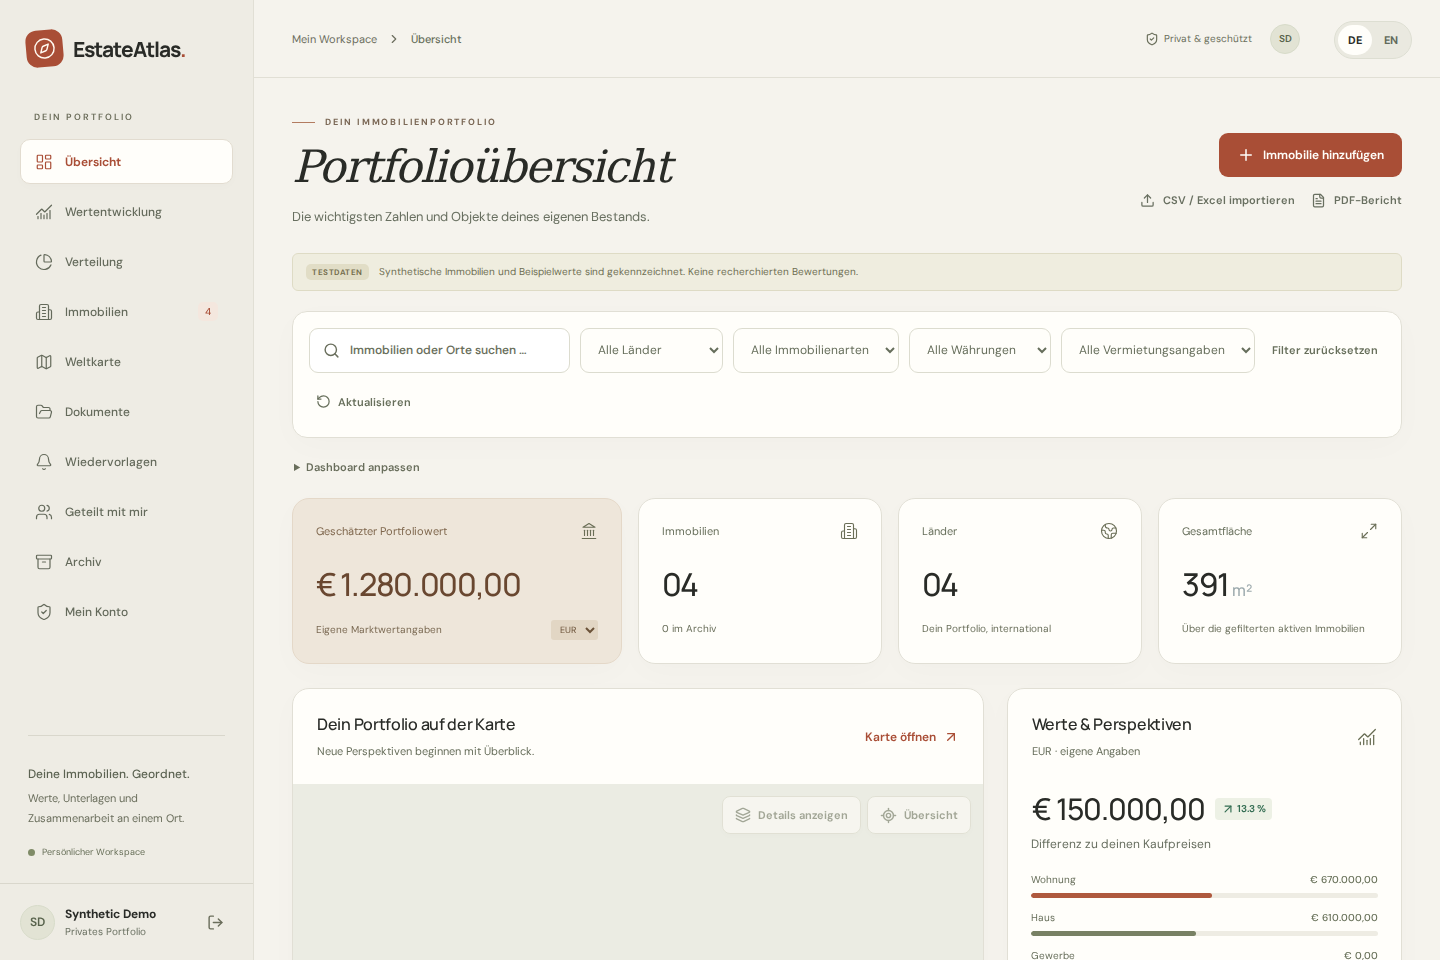
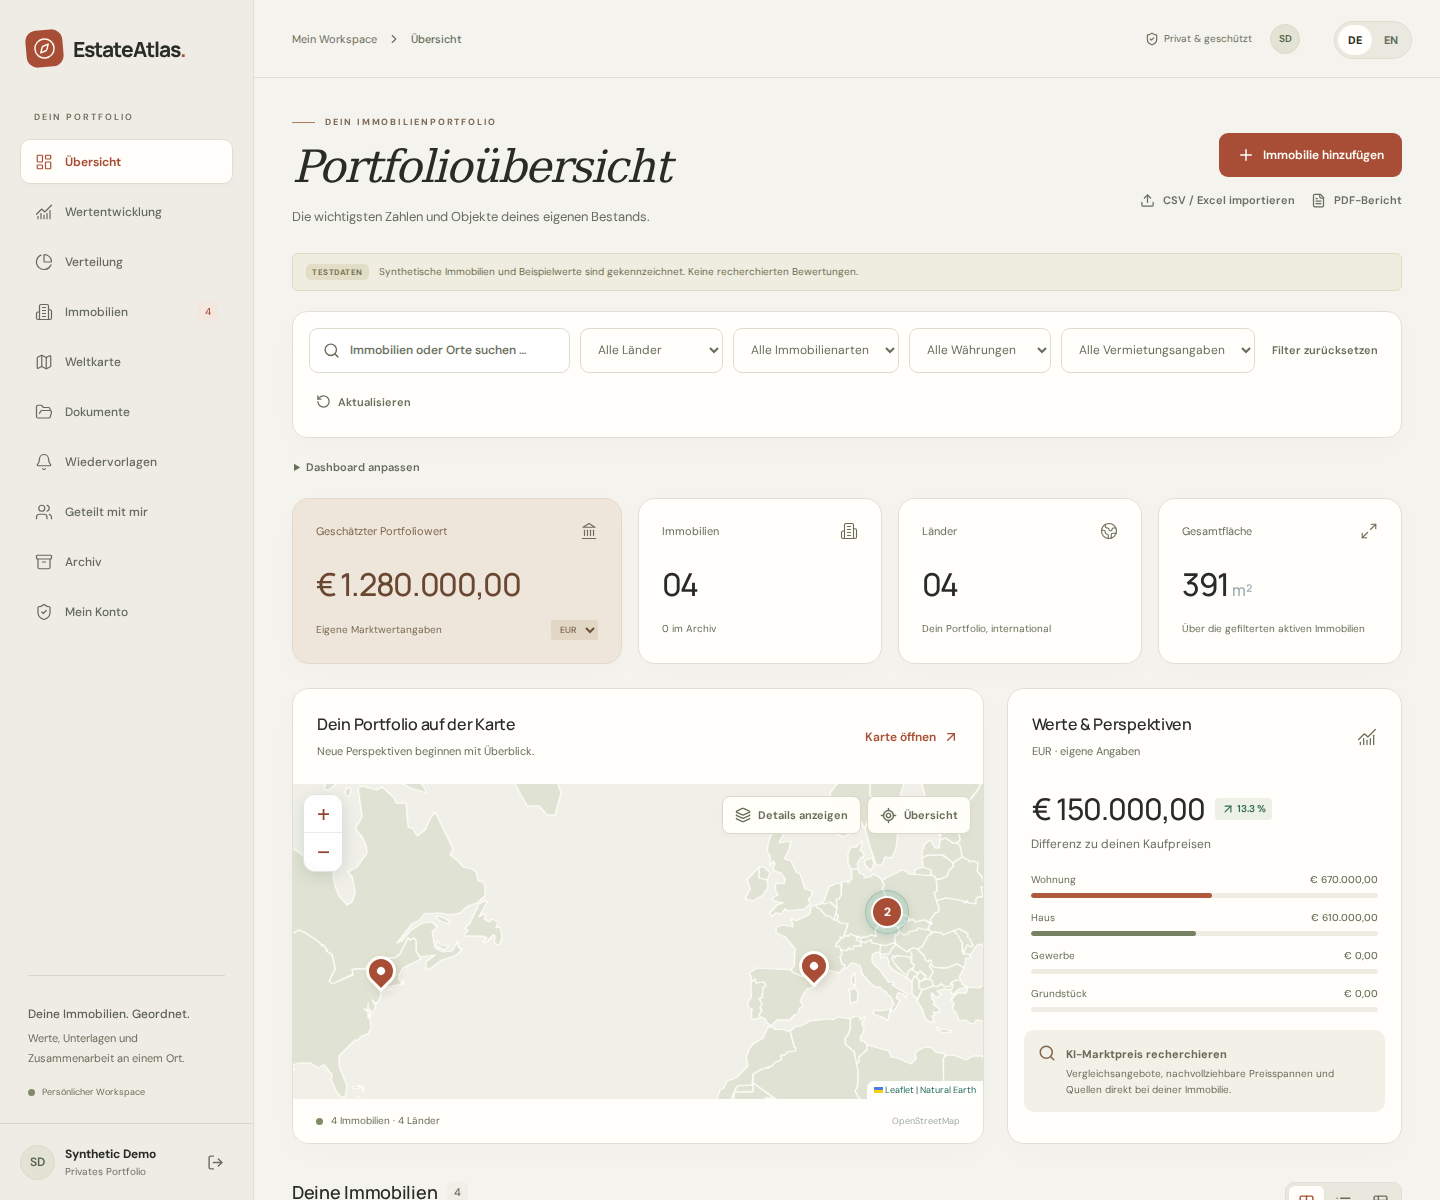
ci: require fresh Docker installation and record verified onboarding

diff --git a/docs/open-source-release.md b/docs/open-source-release.md
@@ -4,16 +4,21 @@ Preparing the repository, publishing its source, and launching a public hosted i
 
 ## Repository preparation
 
-- [ ] Owner selects the source license; add the unmodified license text and matching workspace metadata.
-
 The review branch proposes MIT in `LICENSE` and workspace metadata. Owner confirmation of this choice is pending; it is not authorization to change repository visibility. License comparison: [MIT](https://choosealicense.com/licenses/mit/) and [AGPL-3.0](https://choosealicense.com/licenses/agpl-3.0/).
 
+- [ ] Owner selects the source license; add the unmodified license text and matching workspace metadata.
 - [x] README explains the product, local start, native limitations and contribution path.
 - [x] Self-hosting, development and maintainer deployment guides are separated.
 - [x] Contributor/PR guidance, issue forms, security reporting and bundled-asset notices are present.
-- [ ] Generate and inspect the synthetic desktop/mobile previews from the fresh-install check.
-- [ ] Pass the fresh-checkout Docker check for the committed code; retain its local report.
+- [x] Generate and inspect the synthetic desktop/mobile previews from the fresh-install check.
+- [x] Pass the fresh-checkout Docker check for the committed onboarding code; retain its local report.
 - [ ] Pass documentation links, workflow validation, full-history secret scanning and both branch pipelines.
+
+## Local verification
+
+Verified on Linux x86_64 on 2026-10-22, using committed source `ab9524b51d2be52ff7d763973a5bf98113c74208` and `./scripts/pnpm exec node scripts/check-self-hosting.mjs --screenshots`.
+
+The eight checks cover a clean clone without host app dependencies/user configuration, isolated Docker project/ports/volumes, builds and service health, packaged license/notices, Web/API/CORS/private access, open signup and explicit synthetic fixtures, browser login/screenshots, and persisted data/sessions plus logout after restart. The temporary database and containers were removed. Logs and the machine-readable result remain in ignored `.local/`; no user or provider data was used. The same check now runs as a required job in both branch pipelines.
 
 ## Before changing visibility
 
@@ -21,9 +26,13 @@ The review branch proposes MIT in `LICENSE` and workspace metadata. Owner confir
 - Confirm the selected license covers the code the owner can license; retain third-party terms.
 - Make the prepared changes available on `main` through the normal `dev` → `main` release PR. GitHub uses the default branch for the README, license, security policy and issue templates.
 - Set a factual repository description/topics and enable Issues for reports.
-- Enable GitHub private vulnerability reporting when the repository supports it; keep the security policy's fallback usable until then.
 - Confirm required checks and deployment branch restrictions remain active, and that external contributor PRs receive no deployment secrets.
-- Change visibility only with the owner's explicit publication instruction. Then verify the clone instructions without an authenticated GitHub session.
+
+## Publication
+
+- Change visibility only with the owner's explicit publication instruction.
+- Enable GitHub private vulnerability reporting after publication and verify that **Report a vulnerability** is available. GitHub documents this feature for [public repositories](https://docs.github.com/en/code-security/how-tos/report-and-fix-vulnerabilities/configure-vulnerability-reporting/configure-for-a-repository); the security policy has a contact-only fallback.
+- Verify the clone instructions without an authenticated GitHub session.
 
 ## Before advertising the hosted app
 

diff --git a/docs/development-deployment.md b/docs/development-deployment.md
@@ -5,7 +5,7 @@
 | `dev`  | EstateAtlas Dev pipeline  | Automatic after successful checks: https://dev.estateatlas.app       |
 | `main` | EstateAtlas Main pipeline | Production after explicit workflow approval: https://estateatlas.app |
 
-Features and fixes target `dev`. A release pull request merges `dev` into `main`. Each branch has its own workflow and runs the shared checks from `.github/workflows/ci.yml`: workflow/shell validation, full-history secret scanning, types, dependency audit, real PostgreSQL API tests, proxy/gateway checks, production builds, Android/iOS exports and desktop/mobile browser tests. `checks / Required checks` fails if any check fails, is cancelled or is skipped. Pull requests, including forks, cannot access deployment secrets or deploy. There are no path filters that can silently skip required checks.
+Features and fixes target `dev`. A release pull request merges `dev` into `main`. Each branch has its own workflow and runs the shared checks from `.github/workflows/ci.yml`: workflow/shell and documentation validation, full-history secret scanning, types, dependency audit, real PostgreSQL API tests, proxy/gateway checks, production builds, Android/iOS exports, desktop/mobile browser tests and a fresh-checkout Docker installation check. `checks / Required checks` fails if any check fails, is cancelled or is skipped. Pull requests, including forks, cannot access deployment secrets or deploy. There are no path filters that can silently skip required checks.
 
 The Dev pipeline runs on pushes to `dev`, pull requests targeting `dev`, and manual runs. Only a trusted push/manual run on `refs/heads/dev` can deploy. The VPS checks that the approved commit is still the remote `dev` head before building. A push to `main` never deploys Dev.
 

diff --git a/CONTRIBUTING.md b/CONTRIBUTING.md
@@ -18,7 +18,7 @@ feature branch → pull request → dev → checks → automatic Dev deployment
                                 main → checks → production approval → production
 ```
 
-Both branches run workflow validation, a redacted secret scan over the full Git history, workspace type checks, dependency auditing, real PostgreSQL API tests, production builds, desktop/mobile browser tests and Android/iOS exports. `checks / Required checks` succeeds only when every required job succeeds. Pull requests, including forks, run without deployment secrets and cannot deploy.
+Both branches run workflow/documentation validation, a redacted secret scan over the full Git history, workspace type checks, dependency auditing, real PostgreSQL API tests, production builds, desktop/mobile browser tests, Android/iOS exports and a fresh-checkout Docker installation check. `checks / Required checks` succeeds only when every required job succeeds. Pull requests, including forks, run without deployment secrets and cannot deploy.
 
 Keep pull requests focused and describe the user-visible change, relevant risks and the checks actually performed. Add a regression test for a behavior fix where practical. Web and native clients are equal deliverables: explain any client-specific change or remaining device check. Shared rules belong in `packages/shared`, shared HTTP behavior in `packages/api-client`. Read relevant `AGENTS.md` files before editing.
 

diff --git a/README.md b/README.md
@@ -62,7 +62,7 @@ Start a feature branch from `dev` and open a pull request targeting `dev`. Relea
 
 The Dev preview needs separate gateway credentials and is not a public demo. A successful build does not by itself publish the production service. The [release checklist](docs/open-source-release.md) tracks publication requirements.
 
-Both pipelines run workflow validation, a full-history secret scan, documentation link checks, types, dependency auditing, real PostgreSQL tests, web builds, desktop/mobile browser tests and Android/iOS JavaScript exports. See [CONTRIBUTING.md](CONTRIBUTING.md) for the project-local toolchain and review process.
+Both pipelines run workflow validation, a full-history secret scan, documentation link checks, types, dependency auditing, real PostgreSQL tests, web builds, desktop/mobile browser tests, Android/iOS JavaScript exports and a fresh-checkout Docker installation check. See [CONTRIBUTING.md](CONTRIBUTING.md) for the project-local toolchain and review process.
 
 ## Project structure
 
